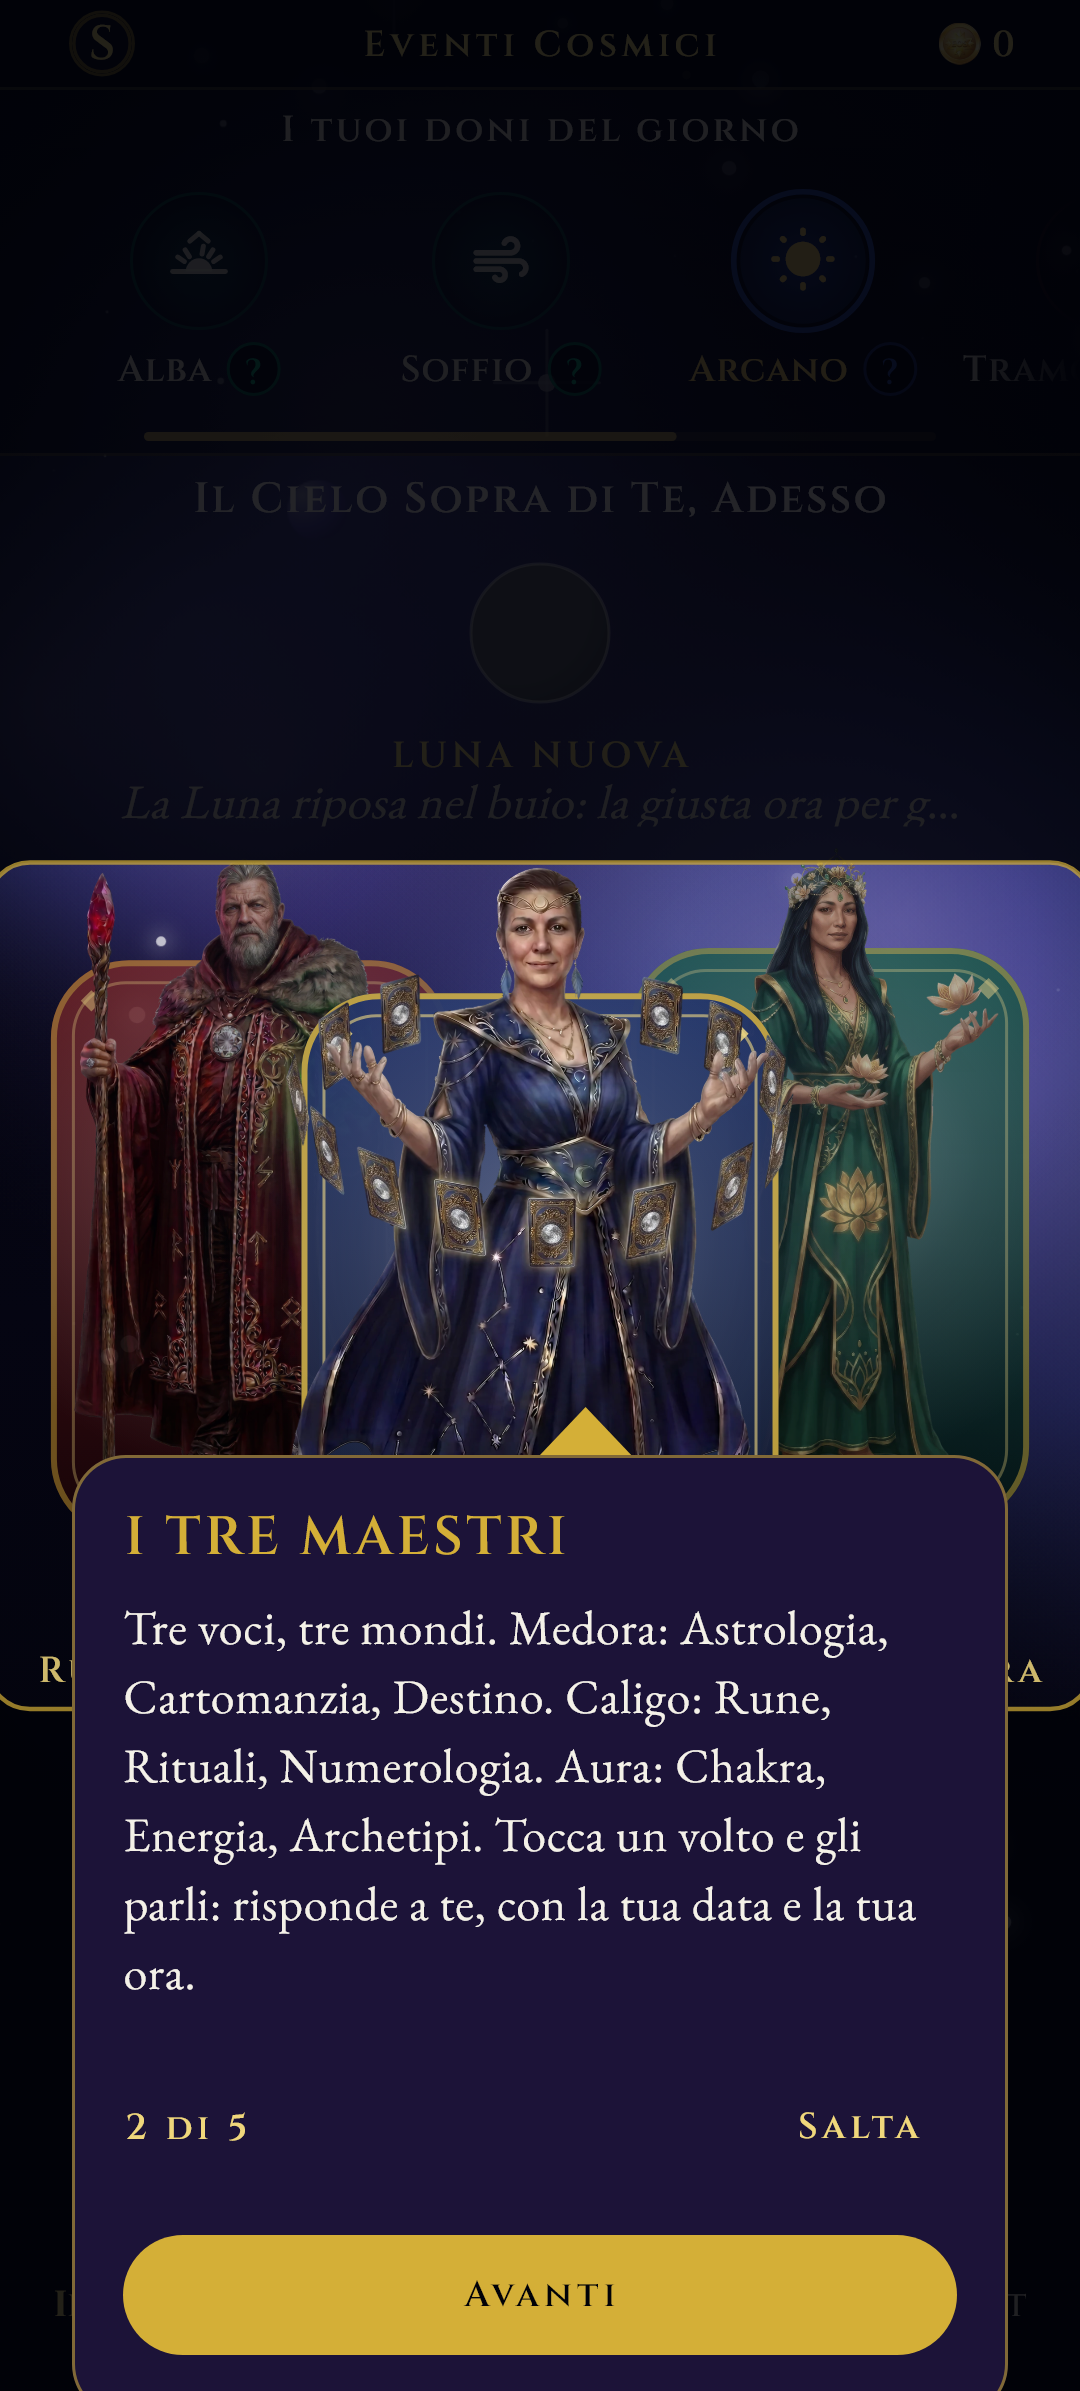
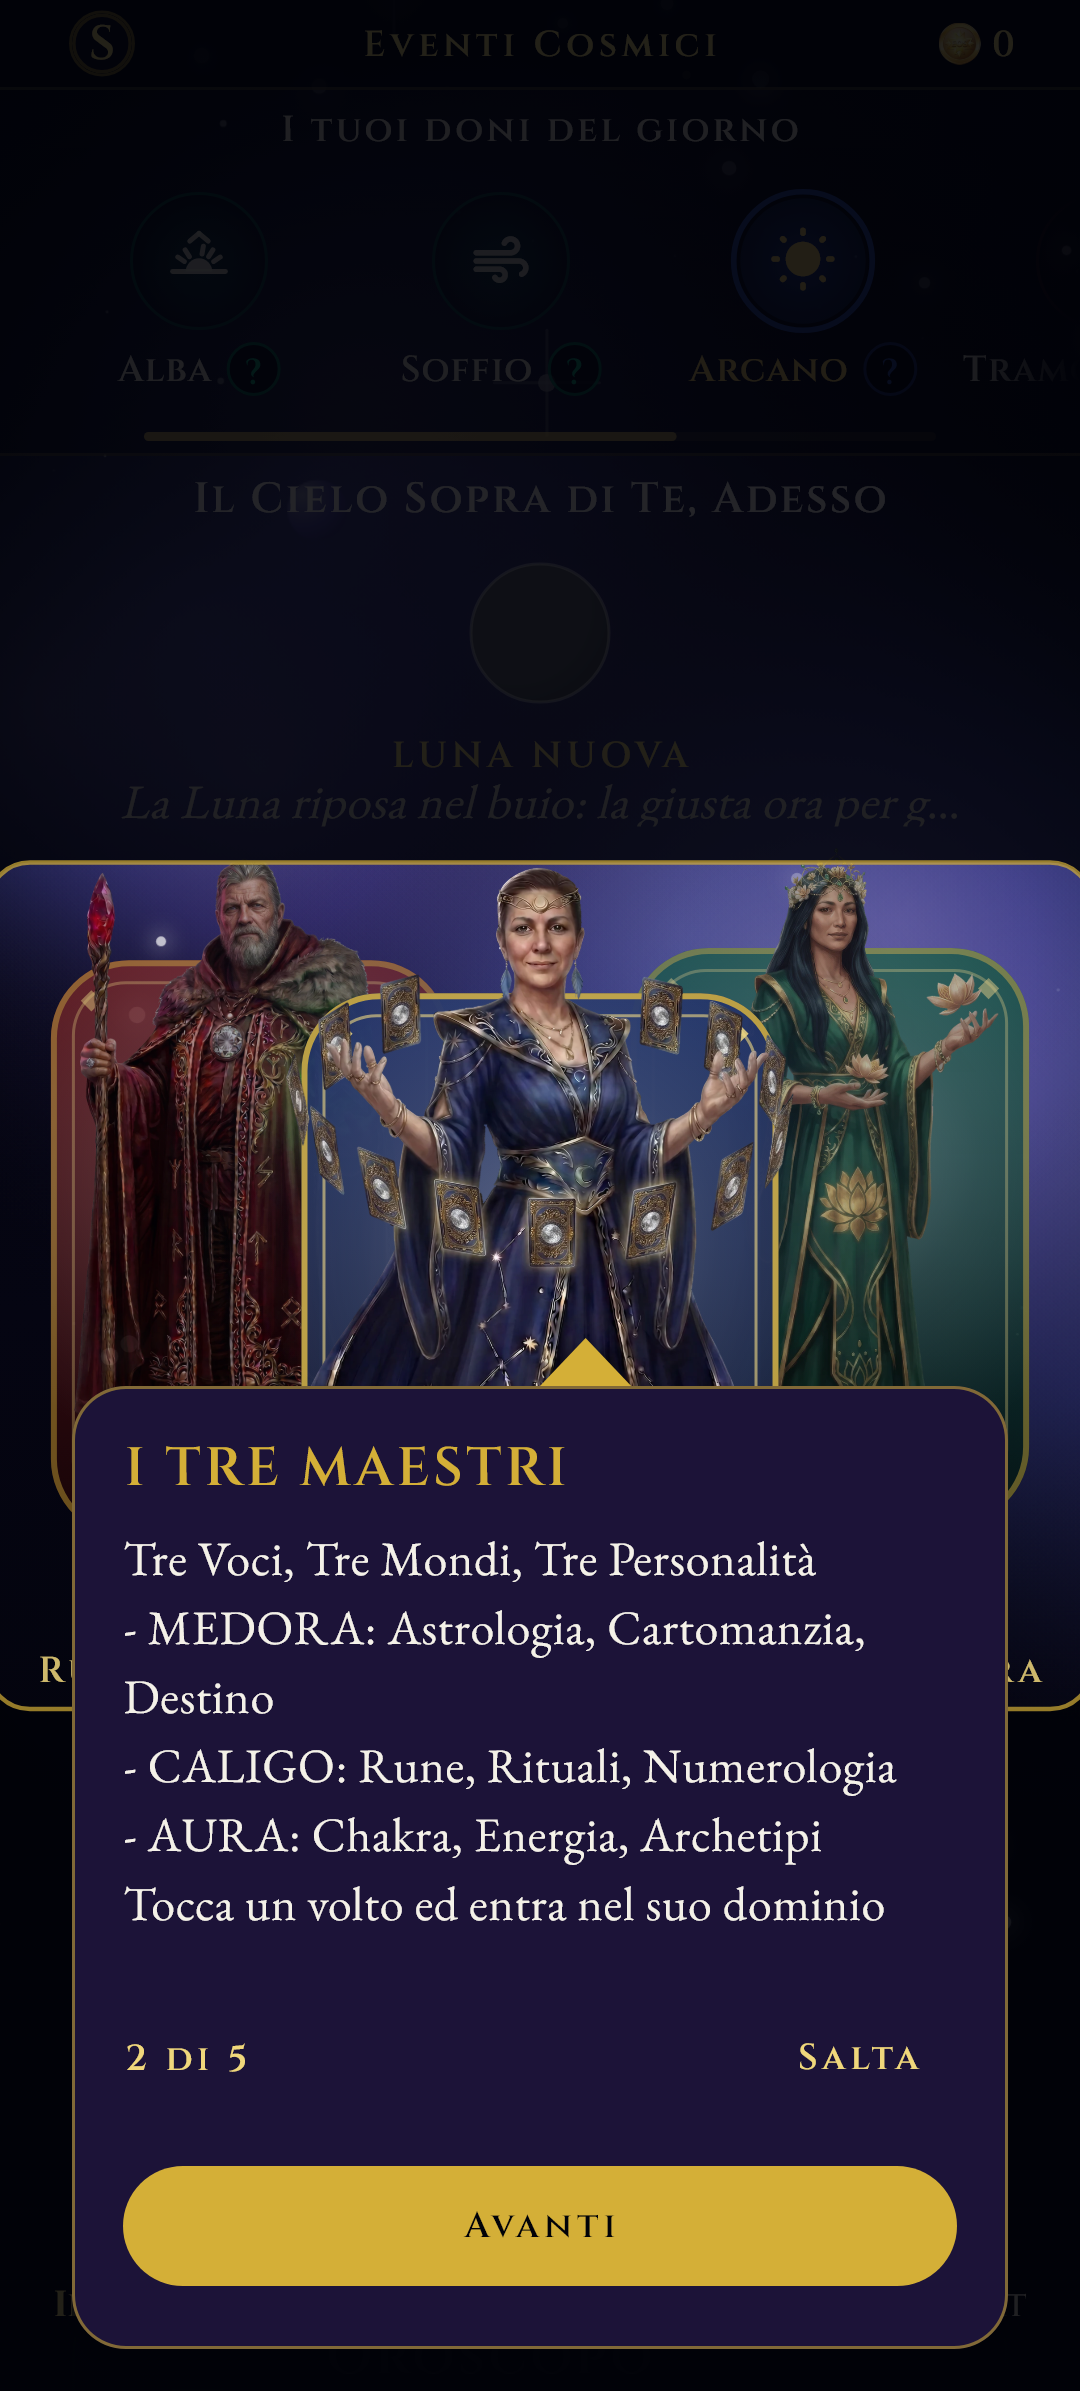
Il fumetto dei Maestri prende la forma a elenco che il fondatore ha scritto
Tre righe, una per Maestro, col nome in maiuscolo, e la chiusura "Tocca un
volto ed entra nel suo dominio" al posto della vecchia coda. I capoversi
stanno nel testo: il Text li disegna e il TextPainter che misura
l'ingombro prima di posare la carta legge la stessa stringa, quindi le due
cose non possono divergere.

La carta e' piu' alta di cinque righe e comincia a 508 invece che a 531,
su un bersaglio che va da 262 a 536: copre ventotto punti del bordo basso
delle carte dei Maestri, e le facce restano ben sopra.

La guardia dei tre domini confronta adesso ignorando le maiuscole: MEDORA
in maiuscolo e' una scelta di stile del fondatore, le tre arti sono il
fatto, e il fatto e' quello che si difende.

Changed region(s): [[0.0611, 0.5571, 0.9472, 0.8356], [0.0611, 0.8356, 0.9472, 1.0]]

diff --git a/lib/features/onboarding/primo_approdo.dart b/lib/features/onboarding/primo_approdo.dart
@@ -100,12 +100,20 @@ const List<FumettoDelPrimoApprodo> cinqueFumetti = [
   // **La coincidenza non e' lasciata alla buona volonta'**: una prova pretende
   // che questo testo contenga, carattere per carattere, il dominio che ogni
   // Maestro dichiara di se'. Se domani uno dei due cambia senza l'altro, cade.
+  //
+  // **LA FORMA A ELENCO E' SUA, del 30 agosto 2026.** Prima i tre domini
+  // stavano in fila dentro un periodo unico, e a video erano un muretto di
+  // testo; adesso ognuno ha la sua riga, col nome in maiuscolo. I capoversi
+  // sono nel testo, il `Text` li disegna e il `TextPainter` che misura
+  // l'ingombro prima di posare la carta li conta: le due cose leggono la
+  // stessa stringa, quindi non possono divergere.
   FumettoDelPrimoApprodo(
     titolo: 'I TRE MAESTRI',
-    testo: 'Tre voci, tre mondi. Medora: Astrologia, Cartomanzia, Destino. '
-        'Caligo: Rune, Rituali, Numerologia. Aura: Chakra, Energia, '
-        'Archetipi. Tocca un volto e gli parli: risponde a te, con la tua '
-        'data e la tua ora.',
+    testo: 'Tre Voci, Tre Mondi, Tre Personalità\n'
+        '- MEDORA: Astrologia, Cartomanzia, Destino\n'
+        '- CALIGO: Rune, Rituali, Numerologia\n'
+        '- AURA: Chakra, Energia, Archetipi\n'
+        'Tocca un volto ed entra nel suo dominio',
     lato: LatoDelFumetto.sotto,
     ancora: BersagliDelPrimoApprodo.trio,
   ),

diff --git a/test/il_consiglio_mostra_tre_voci_test.dart b/test/il_consiglio_mostra_tre_voci_test.dart
@@ -223,10 +223,14 @@ void main() {
   /// cambio si pretende che le due cose dicano lo stesso: **tre domini, nove
   /// parole, carattere per carattere**.
   test('il fumetto dei Maestri dice esattamente i domini', () {
-    final testo = cinqueFumetti[1].testo;
+    // **IL CONFRONTO NON GUARDA LE MAIUSCOLE.** Il fondatore scrive i nomi
+    // in maiuscolo dentro l'elenco, MEDORA invece di Medora: le maiuscole
+    // sono una sua scelta di stile, le tre arti sono il fatto. Si confronta
+    // quello.
+    final testo = cinqueFumetti[1].testo.toUpperCase();
     final mute = <String>[];
     for (final m in Maestro.values) {
-      final atteso = '${m.displayName}: ${m.domainArts}';
+      final atteso = '${m.displayName}: ${m.domainArts}'.toUpperCase();
       if (!testo.contains(atteso)) mute.add(atteso);
     }
     // ignore: avoid_print

diff --git a/test/i_testi_del_tutorial_sono_del_fondatore_test.dart b/test/i_testi_del_tutorial_sono_del_fondatore_test.dart
@@ -30,10 +30,11 @@ void main() {
     ),
     1: (
       'I TRE MAESTRI',
-      'Tre voci, tre mondi. Medora: Astrologia, Cartomanzia, Destino. '
-          'Caligo: Rune, Rituali, Numerologia. Aura: Chakra, Energia, '
-          'Archetipi. Tocca un volto e gli parli: risponde a te, con la tua '
-          'data e la tua ora.'
+      'Tre Voci, Tre Mondi, Tre Personalità\n'
+          '- MEDORA: Astrologia, Cartomanzia, Destino\n'
+          '- CALIGO: Rune, Rituali, Numerologia\n'
+          '- AURA: Chakra, Energia, Archetipi\n'
+          'Tocca un volto ed entra nel suo dominio'
     ),
     2: (
       'IL CERCHIO A UN CLICK',
